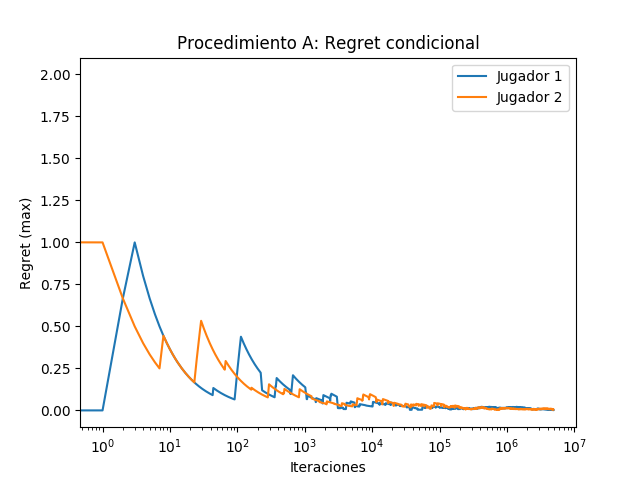
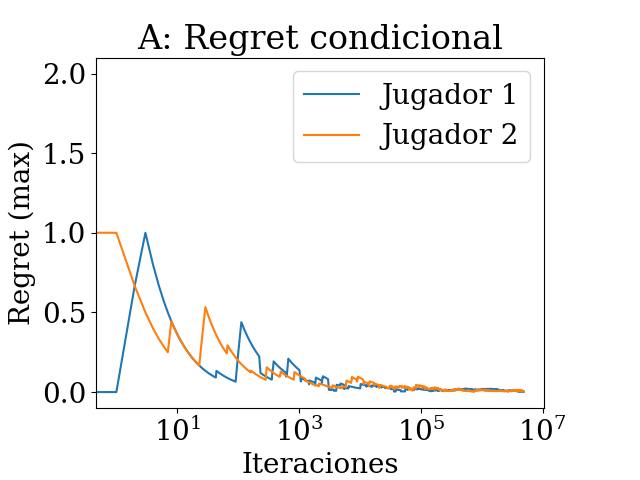
Mejorar graficas

diff --git a/src/graphics.py b/src/graphics.py
@@ -2,6 +2,9 @@ import matplotlib.pylab as plt
 import sys
 MAX_VAL = 2e7
 
+BIGGER_SIZE = 20
+FONT_SIZE = 15
+SMALL_SIZE = 12
 def make_plot(path_input, path_graph, proc, name):
     file = open(path_input)
     i = 0
@@ -15,14 +18,17 @@ def make_plot(path_input, path_graph, proc, name):
         regret2.append(float(line.split()[1]))
         i = i+1
     file.close()
+    plt.rc('font', size=BIGGER_SIZE, family='serif')
     plt.figure()
-    plt.title('Procedimiento ' + proc + ': ' + name)
+    plt.title(proc + ': ' + name)
     plt.xscale('log')
     plt.plot(regret1, label='Jugador 1')
     plt.plot(regret2, label='Jugador 2')
-    plt.ylabel('Regret (max)')
+    if (proc == 'A'):
+        plt.ylabel('Regret (max)')
     plt.xlabel('Iteraciones')
     plt.legend()
+    plt.subplots_adjust(bottom=0.15, left=0.15, right=0.85)
     plt.savefig(path_graph)
 
 if __name__ == "__main__":

diff --git a/src/utility.cpp b/src/utility.cpp
@@ -55,13 +55,14 @@ int main(int argc, char **argv) {
                 v += A[i][j]*s2[j];
             v2 = max(v2, v);
         }
+        v1 = -v1;
         cout << "Procedimiento " + procs[i] + ": v1 v2 = ";
-        cout << fixed << setprecision(7) << v1 << ' ' << -v2 << endl;
+        cout << fixed << setprecision(7) << v1 << ' ' << v2 << endl;
+        cout << "e = " << v1 + v2 << endl;
+        double u = 0;
+        for (int i = 0; i < N; i++)
+            for (int j = 0; j < M; j++)
+                u += A[i][j]*s1[i]*s2[j];
+        cout << "u = " << u << endl;
     }
-
-    double u = 0;
-    for (int i = 0; i < N; i++)
-        for (int j = 0; j < M; j++)
-            u += A[i][j]*s1[i]*s2[j];
-    cout << "u = " << u << endl;
 }
